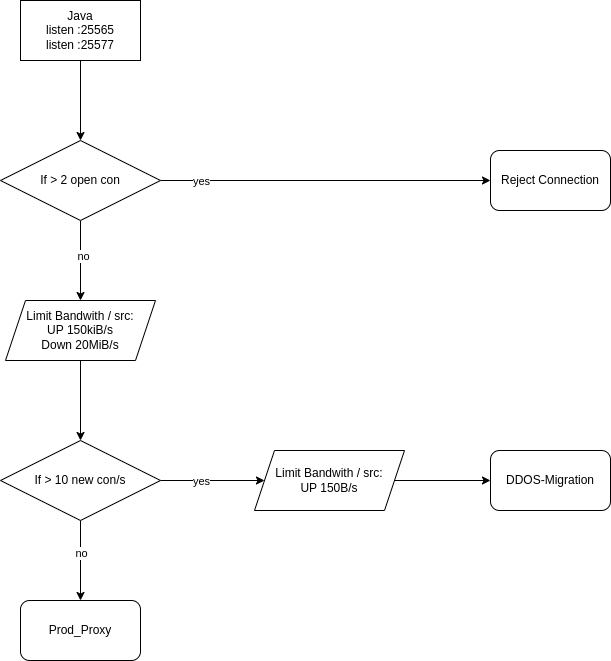
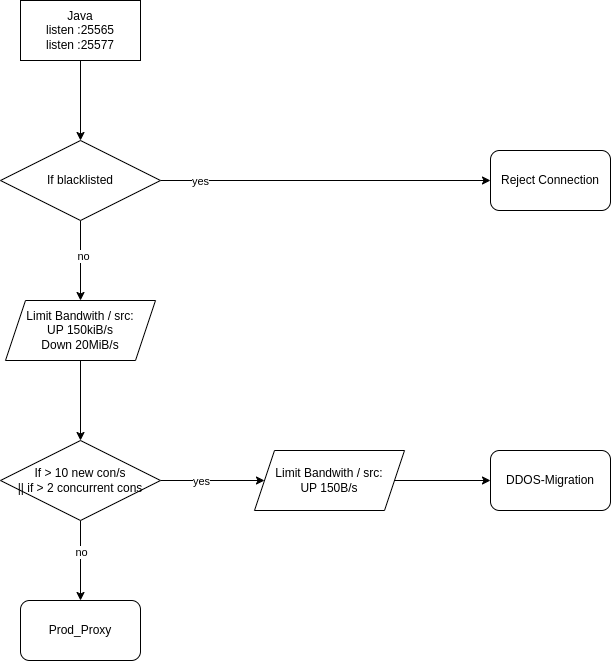
Add IP Blacklisting and Blacklist import script

diff --git a/README.md b/README.md
@@ -8,6 +8,7 @@ This Project aims to protect Minecraft Servers from DDOS attacks.
   - [Features](#features)
   - [Host Firewall](#host-firewall)
   - [Application Firewall](#application-firewall)
+    - [Blacklisting](#blacklisting)
   - [State of the Project](#state-of-the-project)
   
 ## Features
@@ -58,6 +59,20 @@ If the limit is reached, connection should be mitigated to a honeypot for furthe
 See the [application_firewall.haproxy](application_firewall.conf) file for the configuration.
 
 > **Note:** The application firewall does not support bedrock edition yet.
+
+### Blacklisting
+
+The Application Firewall can be used to blacklist IPs.
+
+To blacklist an IP add the ip or ip range to the `/etc/haproxy/blacklist.lst` file.
+
+Or use the import-script to import the blacklist from various sources.
+
+```bash
+sudo bash blacklist_importer.sh
+```
+
+> **Note:** The blacklist file must be created before starting the haproxy service.
 
 ## State of the Project
 
